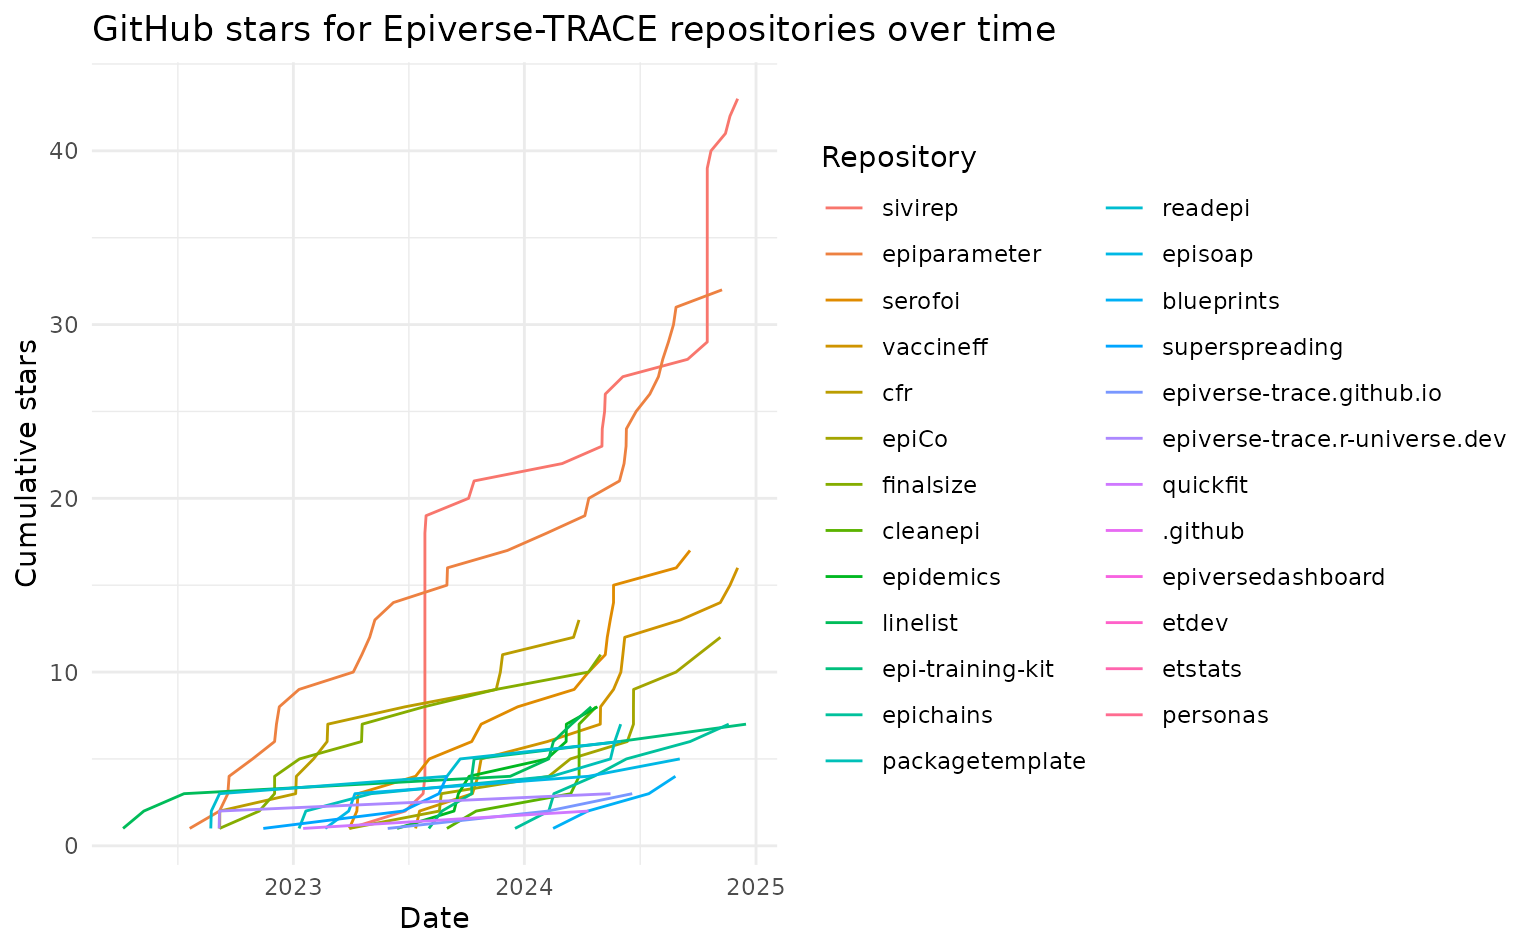
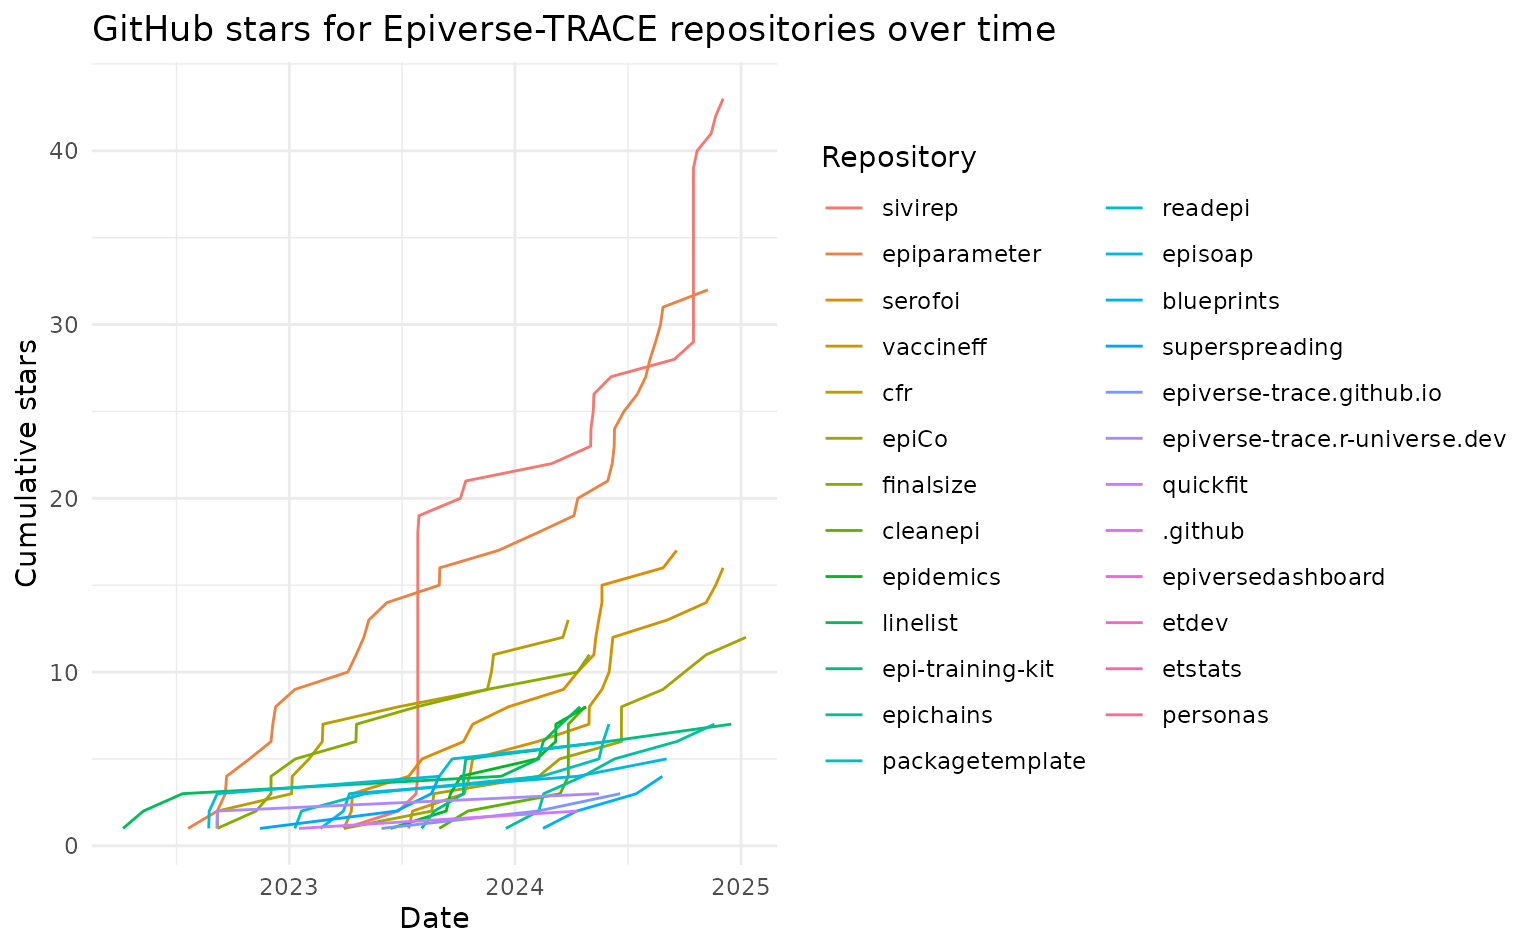
Deploying to gh-pages from @ epiverse-trace/etstats@f58691e22443295c5944f519c2dfd92719d6327e 🚀

diff --git a/articles/github-statistics.html b/articles/github-statistics.html
@@ -74,7 +74,7 @@
 
       <h1>GitHub statistics</h1>
             
-            <h4 data-toc-skip class="date">2025-01-06</h4>
+            <h4 data-toc-skip class="date">2025-01-13</h4>
       
       <small class="dont-index">Source: <a href="https://github.com/epiverse-trace/etstats/blob/main/vignettes/github-statistics.Rmd" class="external-link"><code>vignettes/github-statistics.Rmd</code></a></small>
       <div class="d-none name"><code>github-statistics.Rmd</code></div>
@@ -85,14 +85,12 @@
 <div class="section level2">
 <h2 id="github-followers">GitHub followers<a class="anchor" aria-label="anchor" href="#github-followers"></a>
 </h2>
-<p>Our Epiverse-TRACE GitHub organization currently has 180
+<p>Our Epiverse-TRACE GitHub organization currently has 181
 followers.</p>
 </div>
 <div class="section level2">
 <h2 id="github-stars">GitHub stars ⭐<a class="anchor" aria-label="anchor" href="#github-stars"></a>
 </h2>
-<pre><code><span><span class="co">#&gt; Error in get(paste0(generic, ".", class), envir = get_method_env()) : </span></span>
-<span><span class="co">#&gt;   object 'type_sum.accel' not found</span></span></code></pre>
 <div class="section level3">
 <h3 id="totals">Totals<a class="anchor" aria-label="anchor" href="#totals"></a>
 </h3>
@@ -110,6 +108,7 @@ stars come from 138 unique users.</p>
 <th align="right">2022</th>
 <th align="right">2023</th>
 <th align="right">2024</th>
+<th align="right">2025</th>
 <th align="right">Total</th>
 </tr></thead>
 <tbody>
@@ -118,6 +117,7 @@ stars come from 138 unique users.</p>
 <td align="right">0</td>
 <td align="right">21</td>
 <td align="right">22</td>
+<td align="right">0</td>
 <td align="right">43</td>
 </tr>
 <tr class="even">
@@ -125,6 +125,7 @@ stars come from 138 unique users.</p>
 <td align="right">8</td>
 <td align="right">9</td>
 <td align="right">15</td>
+<td align="right">0</td>
 <td align="right">32</td>
 </tr>
 <tr class="odd">
@@ -132,6 +133,7 @@ stars come from 138 unique users.</p>
 <td align="right">0</td>
 <td align="right">8</td>
 <td align="right">9</td>
+<td align="right">0</td>
 <td align="right">17</td>
 </tr>
 <tr class="even">
@@ -139,6 +141,7 @@ stars come from 138 unique users.</p>
 <td align="right">0</td>
 <td align="right">5</td>
 <td align="right">11</td>
+<td align="right">0</td>
 <td align="right">16</td>
 </tr>
 <tr class="odd">
@@ -146,13 +149,15 @@ stars come from 138 unique users.</p>
 <td align="right">2</td>
 <td align="right">9</td>
 <td align="right">2</td>
+<td align="right">0</td>
 <td align="right">13</td>
 </tr>
 <tr class="even">
 <td align="left">epiCo</td>
 <td align="right">0</td>
 <td align="right">3</td>
-<td align="right">9</td>
+<td align="right">8</td>
+<td align="right">1</td>
 <td align="right">12</td>
 </tr>
 <tr class="odd">
@@ -160,6 +165,7 @@ stars come from 138 unique users.</p>
 <td align="right">4</td>
 <td align="right">5</td>
 <td align="right">2</td>
+<td align="right">0</td>
 <td align="right">11</td>
 </tr>
 <tr class="even">
@@ -167,6 +173,7 @@ stars come from 138 unique users.</p>
 <td align="right">3</td>
 <td align="right">1</td>
 <td align="right">4</td>
+<td align="right">0</td>
 <td align="right">8</td>
 </tr>
 <tr class="odd">
@@ -174,6 +181,7 @@ stars come from 138 unique users.</p>
 <td align="right">0</td>
 <td align="right">2</td>
 <td align="right">6</td>
+<td align="right">0</td>
 <td align="right">8</td>
 </tr>
 <tr class="even">
@@ -181,6 +189,7 @@ stars come from 138 unique users.</p>
 <td align="right">0</td>
 <td align="right">4</td>
 <td align="right">4</td>
+<td align="right">0</td>
 <td align="right">8</td>
 </tr>
 <tr class="odd">
@@ -188,6 +197,7 @@ stars come from 138 unique users.</p>
 <td align="right">0</td>
 <td align="right">5</td>
 <td align="right">2</td>
+<td align="right">0</td>
 <td align="right">7</td>
 </tr>
 <tr class="even">
@@ -195,6 +205,7 @@ stars come from 138 unique users.</p>
 <td align="right">0</td>
 <td align="right">1</td>
 <td align="right">6</td>
+<td align="right">0</td>
 <td align="right">7</td>
 </tr>
 <tr class="odd">
@@ -202,6 +213,7 @@ stars come from 138 unique users.</p>
 <td align="right">0</td>
 <td align="right">3</td>
 <td align="right">4</td>
+<td align="right">0</td>
 <td align="right">7</td>
 </tr>
 <tr class="even">
@@ -209,6 +221,7 @@ stars come from 138 unique users.</p>
 <td align="right">3</td>
 <td align="right">2</td>
 <td align="right">1</td>
+<td align="right">0</td>
 <td align="right">6</td>
 </tr>
 <tr class="odd">
@@ -216,12 +229,14 @@ stars come from 138 unique users.</p>
 <td align="right">0</td>
 <td align="right">3</td>
 <td align="right">2</td>
+<td align="right">0</td>
 <td align="right">5</td>
 </tr>
 <tr class="even">
 <td align="left">superspreading</td>
 <td align="right">1</td>
 <td align="right">3</td>
+<td align="right">0</td>
 <td align="right">0</td>
 <td align="right">4</td>
 </tr>
@@ -230,6 +245,7 @@ stars come from 138 unique users.</p>
 <td align="right">0</td>
 <td align="right">0</td>
 <td align="right">4</td>
+<td align="right">0</td>
 <td align="right">4</td>
 </tr>
 <tr class="even">
@@ -237,6 +253,7 @@ stars come from 138 unique users.</p>
 <td align="right">2</td>
 <td align="right">0</td>
 <td align="right">1</td>
+<td align="right">0</td>
 <td align="right">3</td>
 </tr>
 <tr class="odd">
@@ -244,6 +261,7 @@ stars come from 138 unique users.</p>
 <td align="right">0</td>
 <td align="right">1</td>
 <td align="right">2</td>
+<td align="right">0</td>
 <td align="right">3</td>
 </tr>
 <tr class="even">
@@ -251,11 +269,13 @@ stars come from 138 unique users.</p>
 <td align="right">0</td>
 <td align="right">1</td>
 <td align="right">1</td>
+<td align="right">0</td>
 <td align="right">2</td>
 </tr>
 <tr class="odd">
 <td align="left">epiversedashboard</td>
 <td align="right">1</td>
+<td align="right">0</td>
 <td align="right">0</td>
 <td align="right">0</td>
 <td align="right">1</td>
@@ -265,12 +285,14 @@ stars come from 138 unique users.</p>
 <td align="right">0</td>
 <td align="right">1</td>
 <td align="right">0</td>
+<td align="right">0</td>
 <td align="right">1</td>
 </tr>
 <tr class="odd">
 <td align="left">etstats</td>
 <td align="right">0</td>
 <td align="right">1</td>
+<td align="right">0</td>
 <td align="right">0</td>
 <td align="right">1</td>
 </tr>
@@ -279,6 +301,7 @@ stars come from 138 unique users.</p>
 <td align="right">0</td>
 <td align="right">1</td>
 <td align="right">0</td>
+<td align="right">0</td>
 <td align="right">1</td>
 </tr>
 <tr class="odd">
@@ -286,13 +309,15 @@ stars come from 138 unique users.</p>
 <td align="right">0</td>
 <td align="right">0</td>
 <td align="right">1</td>
+<td align="right">0</td>
 <td align="right">1</td>
 </tr>
 <tr class="even">
 <td align="left">Total</td>
 <td align="right">24</td>
 <td align="right">89</td>
-<td align="right">108</td>
+<td align="right">107</td>
+<td align="right">1</td>
 <td align="right">221</td>
 </tr>
 </tbody>

diff --git a/articles/cran-statistics.html b/articles/cran-statistics.html
@@ -74,7 +74,7 @@
 
       <h1>CRAN statistics</h1>
             
-            <h4 data-toc-skip class="date">2025-01-06</h4>
+            <h4 data-toc-skip class="date">2025-01-13</h4>
       
       <small class="dont-index">Source: <a href="https://github.com/epiverse-trace/etstats/blob/main/vignettes/cran-statistics.Rmd" class="external-link"><code>vignettes/cran-statistics.Rmd</code></a></small>
       <div class="d-none name"><code>cran-statistics.Rmd</code></div>
@@ -82,27 +82,25 @@
 
     
     
-<pre><code><span><span class="co">#&gt; Error in get(paste0(generic, ".", class), envir = get_method_env()) : </span></span>
-<span><span class="co">#&gt;   object 'type_sum.accel' not found</span></span></code></pre>
 <p>We currently have 11 Epiverse-TRACE packages on CRAN:</p>
 <ul>
-<li><a href="https://cran.r-project.org/package=epichains" class="external-link">cfr</a></li>
-<li><a href="https://cran.r-project.org/package=epiparameterDB" class="external-link">cleanepi</a></li>
-<li><a href="https://cran.r-project.org/package=cfr" class="external-link">ColOpenData</a></li>
-<li><a href="https://cran.r-project.org/package=linelist" class="external-link">epichains</a></li>
-<li><a href="https://cran.r-project.org/package=vaccineff" class="external-link">epiCo</a></li>
-<li><a href="https://cran.r-project.org/package=sivirep" class="external-link">epiparameterDB</a></li>
-<li><a href="https://cran.r-project.org/package=epiCo" class="external-link">finalsize</a></li>
+<li><a href="https://cran.r-project.org/package=epiCo" class="external-link">cfr</a></li>
+<li><a href="https://cran.r-project.org/package=epichains" class="external-link">cleanepi</a></li>
+<li><a href="https://cran.r-project.org/package=epiparameterDB" class="external-link">ColOpenData</a></li>
+<li><a href="https://cran.r-project.org/package=cfr" class="external-link">epichains</a></li>
+<li><a href="https://cran.r-project.org/package=linelist" class="external-link">epiCo</a></li>
+<li><a href="https://cran.r-project.org/package=vaccineff" class="external-link">epiparameterDB</a></li>
+<li><a href="https://cran.r-project.org/package=sivirep" class="external-link">finalsize</a></li>
 <li><a href="https://cran.r-project.org/package=ColOpenData" class="external-link">linelist</a></li>
 <li><a href="https://cran.r-project.org/package=numberize" class="external-link">numberize</a></li>
 <li><a href="https://cran.r-project.org/package=cleanepi" class="external-link">sivirep</a></li>
 <li><a href="https://cran.r-project.org/package=finalsize" class="external-link">vaccineff</a></li>
 </ul>
-<p>In total, Epiverse-TRACE packages on CRAN have been downloaded 40084
+<p>In total, Epiverse-TRACE packages on CRAN have been downloaded 40892
 times.</p>
 <p>Below is a visualization of the breakdown of this grand total by
 package over time.</p>
-<p><img src="cran-statistics_files/figure-html/unnamed-chunk-7-1.png" alt="Cumulative downloads of Epiverse-TRACE on CRAN (epichains, epiparameterDB, cfr, linelist, vaccineff, sivirep, epiCo, ColOpenData, numberize, cleanepi, finalsize)" width="768"></p>
+<p><img src="cran-statistics_files/figure-html/unnamed-chunk-7-1.png" alt="Cumulative downloads of Epiverse-TRACE on CRAN (epiCo, epichains, epiparameterDB, cfr, linelist, vaccineff, sivirep, ColOpenData, numberize, cleanepi, finalsize)" width="768"></p>
 <table class="table">
 <thead><tr class="header">
 <th align="left">package</th>
@@ -117,84 +115,84 @@ package over time.</p>
 <td align="right">260</td>
 <td align="right">2881</td>
 <td align="right">3336</td>
-<td align="right">40</td>
+<td align="right">102</td>
 </tr>
 <tr class="even">
 <td align="left">linelist</td>
 <td align="right">3712</td>
 <td align="right">4898</td>
 <td align="right">8326</td>
-<td align="right">60</td>
+<td align="right">163</td>
 </tr>
 <tr class="odd">
 <td align="left">cfr</td>
 <td align="right">NA</td>
 <td align="right">364</td>
 <td align="right">5216</td>
-<td align="right">38</td>
+<td align="right">104</td>
 </tr>
 <tr class="even">
 <td align="left">ColOpenData</td>
 <td align="right">NA</td>
 <td align="right">NA</td>
 <td align="right">1445</td>
-<td align="right">94</td>
+<td align="right">215</td>
 </tr>
 <tr class="odd">
 <td align="left">cleanepi</td>
 <td align="right">NA</td>
 <td align="right">NA</td>
 <td align="right">2003</td>
-<td align="right">25</td>
+<td align="right">83</td>
 </tr>
 <tr class="even">
 <td align="left">epiCo</td>
 <td align="right">NA</td>
 <td align="right">NA</td>
 <td align="right">1169</td>
-<td align="right">21</td>
+<td align="right">52</td>
 </tr>
 <tr class="odd">
 <td align="left">epichains</td>
 <td align="right">NA</td>
 <td align="right">NA</td>
 <td align="right">560</td>
-<td align="right">27</td>
+<td align="right">78</td>
 </tr>
 <tr class="even">
 <td align="left">epiparameterDB</td>
 <td align="right">NA</td>
 <td align="right">NA</td>
 <td align="right">269</td>
-<td align="right">29</td>
+<td align="right">100</td>
 </tr>
 <tr class="odd">
 <td align="left">numberize</td>
 <td align="right">NA</td>
 <td align="right">NA</td>
 <td align="right">4388</td>
-<td align="right">101</td>
+<td align="right">244</td>
 </tr>
 <tr class="even">
 <td align="left">sivirep</td>
 <td align="right">NA</td>
 <td align="right">NA</td>
 <td align="right">515</td>
-<td align="right">32</td>
+<td align="right">84</td>
 </tr>
 <tr class="odd">
 <td align="left">vaccineff</td>
 <td align="right">NA</td>
 <td align="right">NA</td>
 <td align="right">243</td>
-<td align="right">32</td>
+<td align="right">82</td>
 </tr>
 <tr class="even">
 <td align="left">Total</td>
 <td align="right">3972</td>
 <td align="right">8143</td>
 <td align="right">27470</td>
-<td align="right">499</td>
+<td align="right">1307</td>
 </tr>
 </tbody>
 </table></main>
